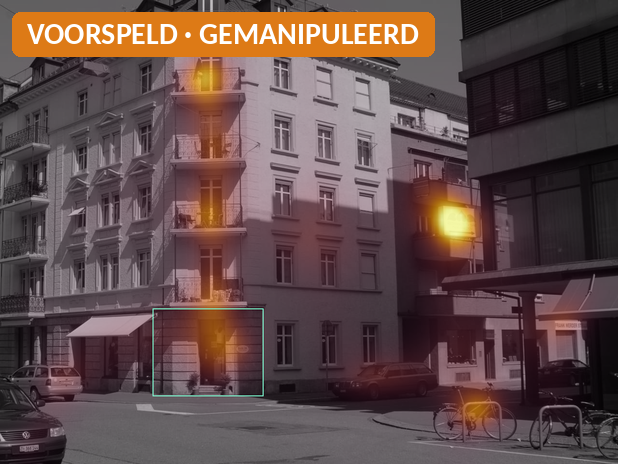
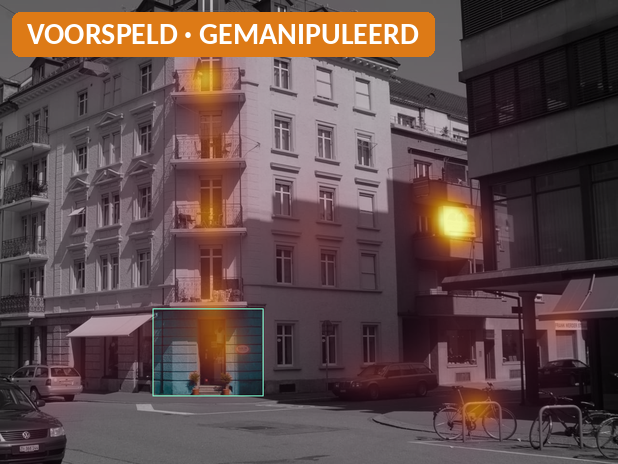
Show the recoloured entrance block on its heat-map panels (eek-a-look 080)
The blue-teal recolouring keeps the stone's lightness, so on the greyed photo
it was invisible: entrance-b2-manipulated and entrance-paths-manipulated looked
like the original. greyed() keeps the colour inside the edited area when the
image is marked recolour in comparisons.json; only these two panels change.

Claude-Session: https://claude.ai/code/session_01NxKMogQ4ca61Um9GH1YGe6

Changed region(s): [[0.246, 0.6638, 0.3382, 0.875], [0.3689, 0.6638, 0.4304, 0.8448]]

diff --git a/presi/tools/render_panels.py b/presi/tools/render_panels.py
@@ -99,11 +99,17 @@ def diff_rgba(field: np.ndarray, lut: np.ndarray) -> tuple[np.ndarray, float]:
     return rgba, top
 
 
-def greyed(photo: Path, size: tuple[int, int], dim: float = 0.75) -> np.ndarray:
+def greyed(photo: Path, size: tuple[int, int], dim: float = 0.75, keep: np.ndarray | None = None) -> np.ndarray:
+    """drawGreyed(): Rec. 709 grey, dimmed; inside the mask `keep` the photo keeps its colour, dimmed alike (prompt 080)."""
     rgb = np.asarray(Image.open(photo).convert("RGB")).astype(float)
-    g = dim * (0.2126 * rgb[..., 0] + 0.7152 * rgb[..., 1] + 0.0722 * rgb[..., 2])
-    g = np.asarray(Image.fromarray(g.astype(np.float32), "F").resize(size, Image.LANCZOS))
-    return np.repeat(g[..., None], 3, -1)
+    g = np.repeat((dim * (0.2126 * rgb[..., 0] + 0.7152 * rgb[..., 1] + 0.0722 * rgb[..., 2]))[..., None], 3, -1)
+    if keep is not None:
+        h, w = rgb.shape[:2]
+        my = np.minimum(keep.shape[0] - 1, np.arange(h) * keep.shape[0] // h)
+        mx = np.minimum(keep.shape[1] - 1, np.arange(w) * keep.shape[1] // w)
+        inside = keep[my][:, mx].astype(bool)
+        g[inside] = dim * rgb[inside]
+    return np.stack([np.asarray(Image.fromarray(g[..., c].astype(np.float32), "F").resize(size, Image.LANCZOS)) for c in range(3)], -1)
 
 
 def over(base: np.ndarray, pre: np.ndarray) -> np.ndarray:
@@ -208,7 +214,10 @@ def main() -> None:
     rng = heat_range([meas, ma, mb] + ([mref] if ref_id != a_id else []))
 
     save(heat_panel(grey_a, ma, rng), out / f"{args.example}-msdb-a.png")
-    save(heat_panel(grey_b, mb, rng), out / f"{args.example}-msdb-b.png")
+    # A recolouring keeps the lightness, so its area keeps its colour on B's heat map (eek-a-look prompt 080).
+    b_image = next((i for i in comp["images"] if i["id"] == b_id), {})
+    grey_b_heat = greyed(photo_b, size, keep=mask) if b_image.get("recolour") else grey_b
+    save(heat_panel(grey_b_heat, mb, rng), out / f"{args.example}-msdb-b.png")
     d_ba, top_ba = diff_panel(grey_b, mb - ma)
     save(d_ba, out / f"{args.example}-msdb-diff.png")
     save(heat_panel(grey_ref, meas, rng, points=pts["points"]), out / f"{args.example}-measured.png")
